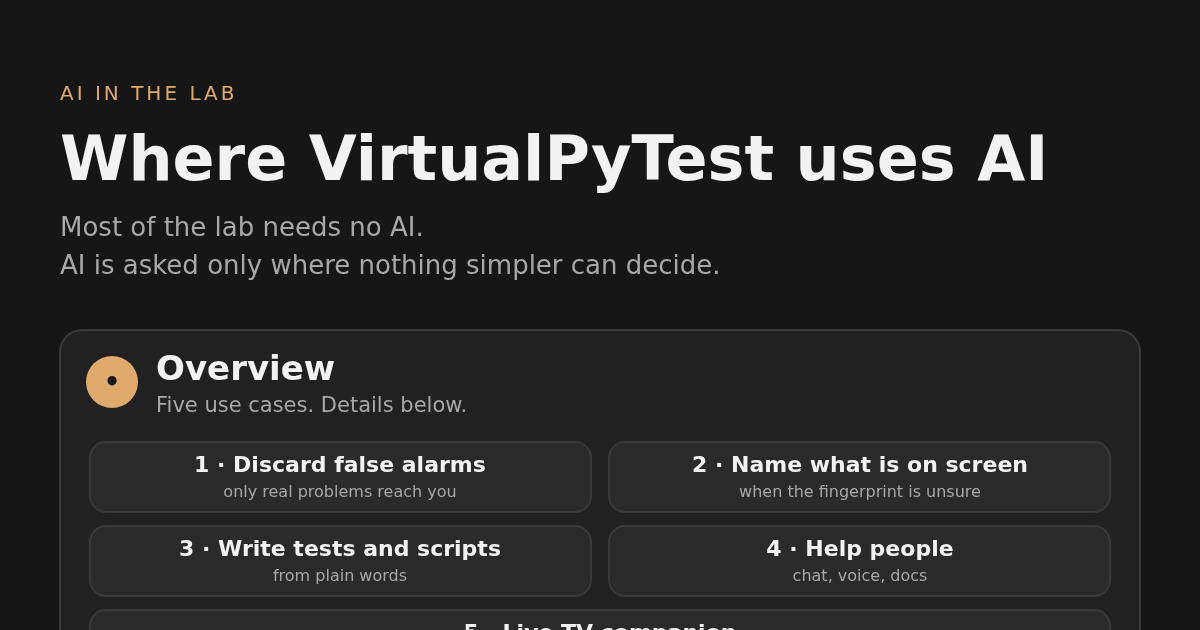
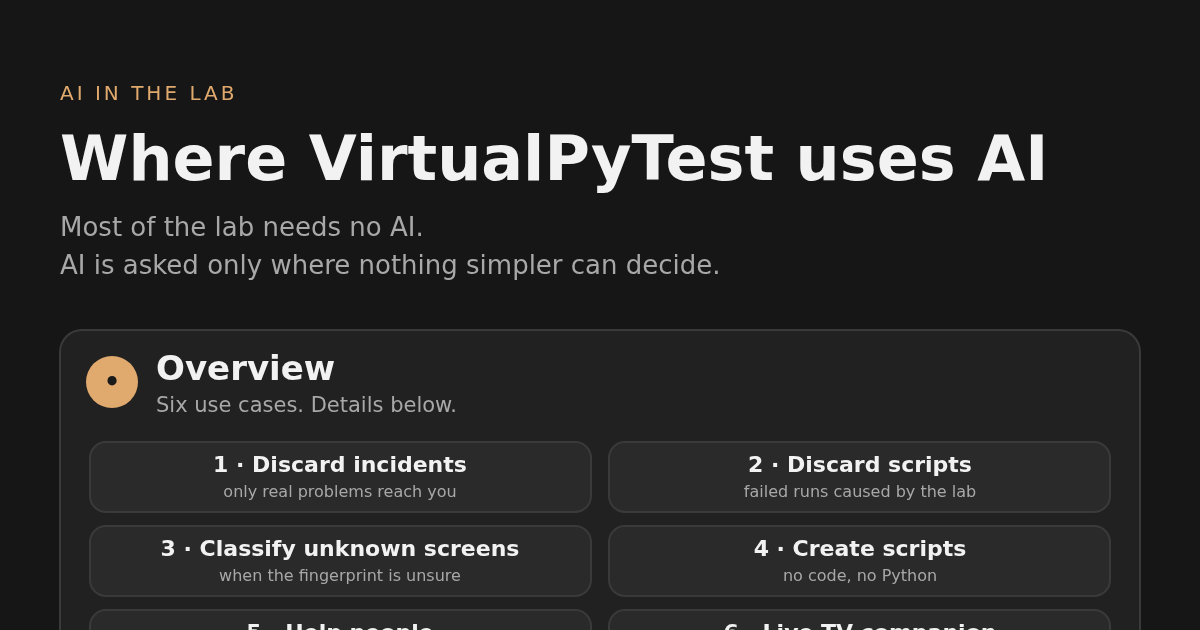
docs: AI poster uses the Learn words: Discard incidents, Discard scripts, Classify unknown screens, Create scripts, Ask AI

diff --git a/docs/index.html b/docs/index.html
@@ -118,7 +118,7 @@ var POSTERS = [
   {id: 'what-is', title: 'What is VirtualPyTest?', topic: '0 · Infra architecture', learn: '0.1', src: 'img/what-is-virtualpytest.svg', alt: 'One vertical image: devices, control, the navigation map, screen checks, runs and KPIs, 24/7 monitoring, and the AI on top.'},
   {id: 'services', title: 'Services are background jobs', topic: '0 · Infra architecture', learn: '0.4', src: 'img/services.svg', alt: 'One vertical image: the backend server services, the device host services grouped by job (core, watch, drive, where used), and how every service shows on the Status page.'},
   {id: 'profiles', title: 'A profile is a set of services', topic: '0 · Infra architecture', learn: '0.3', src: 'img/profiles.svg', alt: 'One vertical image: the three host shapes, a profile for each device, a table of what each profile runs, one setting per device, a real case of paying for what you run, and what to keep.'},
-  {id: 'ai-use-cases', title: 'Where VirtualPyTest uses AI', topic: '7 · AI in the lab', learn: '7.0', src: 'img/ai-use-cases.svg', alt: 'One vertical image that follows the AI use cases doc: the overview of the five use cases, cost, where it runs, what is NOT AI, then each use case (discard false alarms, name what is on screen, write tests and scripts, help people, live TV companion) and freeze discard.'},
+  {id: 'ai-use-cases', title: 'Where VirtualPyTest uses AI', topic: '7 · AI in the lab', learn: '7.0', src: 'img/ai-use-cases.svg', alt: 'One vertical image that follows the AI use cases doc: the overview of the six use cases, cost, where it runs, what is NOT AI, then each use case (discard incidents, discard scripts, classify unknown screens, create scripts, help people, live TV companion) and freeze discard.'},
   {id: 'freeze-discard', title: 'Freeze: menu or stuck video?', topic: '7 · AI in the lab', learn: '7.5/deep', src: 'img/freeze-discard.svg', alt: 'One vertical image: a freeze alert, the words read on two frames, pieces and weights, the safety band (0.1 and 0.9), three real examples with the real model score, the weather-cast case that goes to the bigger check, and the nightly learning.'}
 ];
 var list = document.getElementById('pickl'), pb = document.getElementById('pickb'), img = document.getElementById('img');

diff --git a/docs/view/ai-use-cases/index.html b/docs/view/ai-use-cases/index.html
@@ -1,12 +1,12 @@
 <!doctype html>
 <html lang="en"><head><meta charset="utf-8"><meta name="viewport" content="width=device-width, initial-scale=1">
 <title>Where VirtualPyTest uses AI · VirtualPyTest</title>
-<meta name="description" content="Where VirtualPyTest uses AI: five use cases, from discarding false alarms to the live TV companion, and what is not AI.">
+<meta name="description" content="Where VirtualPyTest uses AI: six use cases, from discarding incidents to the live TV companion, and what is not AI.">
 <meta property="og:type" content="website"><meta property="og:site_name" content="VirtualPyTest">
-<meta property="og:title" content="Where VirtualPyTest uses AI"><meta property="og:description" content="Where VirtualPyTest uses AI: five use cases, from discarding false alarms to the live TV companion, and what is not AI.">
+<meta property="og:title" content="Where VirtualPyTest uses AI"><meta property="og:description" content="Where VirtualPyTest uses AI: six use cases, from discarding incidents to the live TV companion, and what is not AI.">
 <meta property="og:url" content="https://virtualpytest.com/docs/view/ai-use-cases/">
 <meta property="og:image" content="https://virtualpytest.com/docs/img/ai-use-cases-share.png"><meta property="og:image:width" content="1200"><meta property="og:image:height" content="630">
-<meta name="twitter:card" content="summary_large_image"><meta name="twitter:title" content="Where VirtualPyTest uses AI"><meta name="twitter:description" content="Where VirtualPyTest uses AI: five use cases, from discarding false alarms to the live TV companion, and what is not AI.">
+<meta name="twitter:card" content="summary_large_image"><meta name="twitter:title" content="Where VirtualPyTest uses AI"><meta name="twitter:description" content="Where VirtualPyTest uses AI: six use cases, from discarding incidents to the live TV companion, and what is not AI.">
 <meta name="twitter:image" content="https://virtualpytest.com/docs/img/ai-use-cases-share.png">
 <link rel="canonical" href="https://virtualpytest.com/docs/view/ai-use-cases/">
 <meta http-equiv="refresh" content="0; url=../#ai-use-cases">

diff --git a/docs/view/index.html b/docs/view/index.html
@@ -38,7 +38,7 @@ var P = {
   'what-is': {title: 'What is VirtualPyTest?', src: '../img/what-is-virtualpytest.svg', alt: 'One vertical image: devices, control, the navigation map, screen checks, runs and KPIs, 24/7 monitoring, and the AI on top.'},
   'profiles': {title: 'A profile is a set of services', src: '../img/profiles.svg', alt: 'One vertical image: the three host shapes, a profile for each device, a table of what each profile runs, one setting per device, a real case of paying for what you run, and what to keep.'},
   'services': {title: 'Services are background jobs', src: '../img/services.svg', alt: 'One vertical image: the backend server services, the device host services grouped by job (core, watch, drive, where used), and how every service shows on the Status page.'},
-  'ai-use-cases': {title: 'Where VirtualPyTest uses AI', src: '../img/ai-use-cases.svg', alt: 'One vertical image that follows the AI use cases doc: the overview of the five use cases, cost, where it runs, what is NOT AI, then each use case (discard false alarms, name what is on screen, write tests and scripts, help people, live TV companion) and freeze discard.'},
+  'ai-use-cases': {title: 'Where VirtualPyTest uses AI', src: '../img/ai-use-cases.svg', alt: 'One vertical image that follows the AI use cases doc: the overview of the six use cases, cost, where it runs, what is NOT AI, then each use case (discard incidents, discard scripts, classify unknown screens, create scripts, help people, live TV companion) and freeze discard.'},
   'freeze-discard': {title: 'Freeze: menu or stuck video?', src: '../img/freeze-discard.svg', alt: 'One vertical image: a freeze alert, the words read on two frames, pieces and weights, the safety band, the weather-cast case that goes to the bigger check, and the nightly learning.'}
 };
 var id = location.hash.slice(1); var p = P[id] || P['what-is']; id = P[id] ? id : 'what-is';

diff --git a/tools/make_docs_poster_ai.py b/tools/make_docs_poster_ai.py
@@ -59,10 +59,10 @@ def card(y, n, title, sub, rows, notes=(), last=False):
 
 body = []
 y = 330
-y = card(y, "•", "Overview", "Five use cases. Details below.", [
-    [("1 · Discard false alarms", "only real problems reach you"), ("2 · Name what is on screen", "when the fingerprint is unsure")],
-    [("3 · Write tests and scripts", "from plain words"), ("4 · Help people", "chat, voice, docs")],
-    [("5 · Live TV companion", "opt-in per device")],
+y = card(y, "•", "Overview", "Six use cases. Details below.", [
+    [("1 · Discard incidents", "only real problems reach you"), ("2 · Discard scripts", "failed runs caused by the lab")],
+    [("3 · Classify unknown screens", "when the fingerprint is unsure"), ("4 · Create scripts", "no code, no Python")],
+    [("5 · Help people", "Atlas, voice, Ask AI"), ("6 · Live TV companion", "opt-in per device")],
 ])
 y = card(y, "•", "Cost", "All AI calls, 30 days", [
     [("16.72 USD", "all AI calls"), ("0 USD a call", "flat-rate plan"), ("0 USD", "small models on the host"), ("Paid calls", "only as a backup")],
@@ -75,23 +75,25 @@ y = card(y, "•", "What is NOT AI", "People often think it is", [
     [("Freeze, black screen, no audio", "measured on the host"), ("Navigation", "the shortest path in the tree")],
     [("Repair of a tree", "after an app update"), ("Screen memory", "a screen judged harmless once")],
 ], ["AI only helps Localize when a match is doubtful."])
-y = card(y, "1", "Discard false alarms", "So a person only looks at real problems", [
+y = card(y, "1", "Discard incidents", "So a person only looks at real problems", [
     [("Alert triage", "real or noise?"), ("Freeze triage", "menu or stuck video?"), ("Freeze word classifier", "reads the words only")],
-    [("Script result analysis", "app bug or lab noise?"), ("Test Prompt", "app failure or stale test?")],
 ], ["A frozen menu, a sleeping phone, a network blink."])
-y = card(y, "2", "Name what is on screen", "When the fingerprint is not sure", [
+y = card(y, "2", "Discard scripts", "Failed runs caused by the lab are set aside", [
+    [("Script result analysis", "app bug or lab problem?"), ("Test Prompt", "app failure or stale test?")],
+], ["The pass rate counts only real results."])
+y = card(y, "3", "Classify unknown screens", "When the fingerprint is not sure", [
     [("Localize second opinion", "a doubtful match"), ("Text check second opinion", "a close score")],
-    [("Channel banner", "read after a zap"), ("Unknown screens", "named for you"), ("OCR", "reads the words on screen")],
+    [("Channel banner", "read after a zap"), ("Unknown screens", "given a name"), ("OCR", "reads the words on screen")],
 ], ["It only confirms a doubtful answer."])
-y = card(y, "3", "Write tests and scripts", "From plain words", [
+y = card(y, "4", "Create scripts", "From plain words. No code, no Python.", [
     [("Forge", "scripts, tests, trees"), ("Atlas", "tests in the chat")],
     [("Test plan", "the steps from a goal"), ("Exploration", "reads a new app")],
 ], ["A person reviews what is written."])
-y = card(y, "4", "Help people", "Questions about the tool, a screen or a run", [
+y = card(y, "5", "Help people", "Questions about the tool, a screen or a run", [
     [("Atlas", "the assistant in the app"), ("Voice", "spoken commands"), ("Ask AI", "questions about the docs")],
     [("Masterchief", "fleet chat, asks first"), ("Fleet health report", "a daily summary")],
 ])
-y = card(y, "5", "Live TV companion", "Opt-in per device", [
+y = card(y, "6", "Live TV companion", "Opt-in per device", [
     [("Identify", "what is on now"), ("Live read", "the score of a match"), ("Speech to text", "on the host")],
     [("Facts and fact check", "about the programme"), ("Caption translation", "best effort")],
 ])

diff --git a/tools/make_docs_share.py b/tools/make_docs_share.py
@@ -15,7 +15,7 @@ POSTERS = [
     ("what-is", "What is VirtualPyTest?", "img/what-is-virtualpytest.svg", "Any device with a screen, tested and monitored 24/7 by AI, in one image."),
     ("profiles", "A profile is a set of services", "img/profiles.svg", "What a host runs for each device: three host shapes, a profile per device and a table of what each profile switches on."),
     ("services", "Services are background jobs", "img/services.svg", "Every VirtualPyTest service, grouped in server and host, and how each one shows on the Status page."),
-    ("ai-use-cases", "Where VirtualPyTest uses AI", "img/ai-use-cases.svg", "Where VirtualPyTest uses AI: five use cases, from discarding false alarms to the live TV companion, and what is not AI."),
+    ("ai-use-cases", "Where VirtualPyTest uses AI", "img/ai-use-cases.svg", "Where VirtualPyTest uses AI: six use cases, from discarding incidents to the live TV companion, and what is not AI."),
     ("freeze-discard", "Freeze: menu or stuck video?", "img/freeze-discard.svg", "How a freeze alert is decided in 0.25 ms: read the words, weigh the pieces, decide with a safety band."),
 ]
 PAGE = """<!doctype html>
